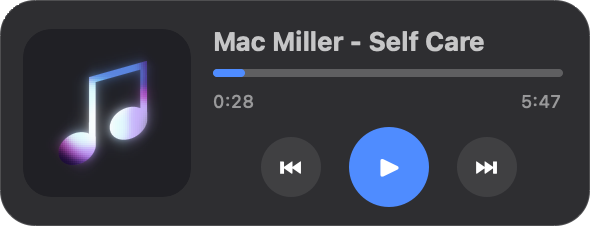
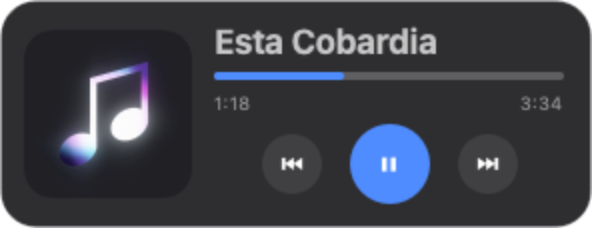
Capturas e icono al dia con la version 1.1.0
Las tres del carrusel ensenaban una aplicacion que ya no existe: con el
boton rojo de cerrar arriba a la izquierda y trece pixeles mas de alto.
Ahora son la nota, el menu -que es lo nuevo de esta version- y la radio,
que es la que mas sorprende. Las emisoras son de verdad, pedidas al
directorio.

Van a sangre y sin sombra, igual que las anteriores, porque el
redondeado y la sombra los pone el CSS: si la imagen trajera la suya
saldrian dos, y la del CSS quedaria despegada de la tarjeta.

El logo pasa a ser el icono nuevo, con las esquinas redondeadas. Es
tambien el favicon y la imagen que sale al compartir el enlace.

Y los textos alternativos dicen lo que se ve en cada captura, en vez de
'screenshot 1, 2, 3'.

Claude-Session: https://claude.ai/code/session_013PXevnRpJ65mHerrMS96Ft

diff --git a/index.html b/index.html
@@ -278,15 +278,15 @@
             <div class="carousel-stack reveal" id="carousel-stack">
 
                 <div class="carousel-card">
-                    <img src="assets/reproductor-preview.png" alt="Digilogic — screenshot 1" class="carousel-image">
+                    <img src="assets/reproductor-preview.png" alt="Digilogic playing a track, with the animated musical note" class="carousel-image">
                 </div>
 
                 <div class="carousel-card">
-                    <img src="assets/reproductor-preview-2.png" alt="Digilogic — screenshot 2" class="carousel-image">
+                    <img src="assets/reproductor-preview-2.png" alt="The menu: songs, playlists, radio, statistics and settings" class="carousel-image">
                 </div>
 
                 <div class="carousel-card">
-                    <img src="assets/reproductor-preview-3.png" alt="Digilogic — screenshot 3" class="carousel-image">
+                    <img src="assets/reproductor-preview-3.png" alt="Radio: live stations from your own country" class="carousel-image">
                 </div>
 
             </div>
